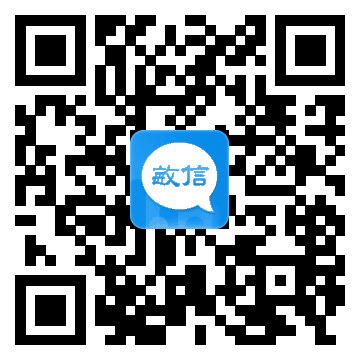
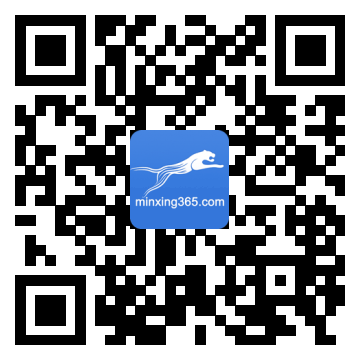
'敏信'改'敏行'

Changed region(s): [[0.3361, 0.3361, 0.6417, 0.6417]]

diff --git a/app/index.html b/app/index.html
@@ -2,9 +2,9 @@
 <html class="no-js">
     <head>
         <meta charset="utf-8">
-        <meta name="keywords" content="敏信,企业微信,企业即时通讯,企业IM,企业公众号,企业服务号,企业应用接入,企业通讯录,公司通讯录,企业社交网络,企业社区,企业SNS,工作圈,企业协作平台,企业协同平台,企业2.0,企业社交软件,Yammer,企业内部社交网络,企业微博,敏行,协同管理,文档管理,知识管理,企业间协作,intranet, company networking, minxing, minxing365, enterprise, productivity, communications, enterprise sns, enterprise IM" />
-        <meta name="description" content="敏信是基于即时通讯(IM)与社交网络(sns)理念的企业移动工作平台，为您的公司构建一个企业私有的沟通、分享和协同工作空间。敏信支持类似微信公众号的方式接入或开发企业应用（例如OA、CRM、ERP等），只需敏信一个应用即可使企业已有应用快速移动化。" />
-        <title>敏信</title>
+        <meta name="keywords" content="敏行,企业微信,企业即时通讯,企业IM,企业公众号,企业服务号,企业应用接入,企业通讯录,公司通讯录,企业社交网络,企业社区,企业SNS,工作圈,企业协作平台,企业协同平台,企业2.0,企业社交软件,Yammer,企业内部社交网络,企业微博,敏行,协同管理,文档管理,知识管理,企业间协作,intranet, company networking, minxing, minxing365, enterprise, productivity, communications, enterprise sns, enterprise IM" />
+        <meta name="description" content="敏行是基于即时通讯(IM)与社交网络(sns)理念的企业移动工作平台，为您的公司构建一个企业私有的沟通、分享和协同工作空间。敏行支持类似微信公众号的方式接入或开发企业应用（例如OA、CRM、ERP等），只需敏行一个应用即可使企业已有应用快速移动化。" />
+        <title>敏行 —— 移动互联时代的工作方式</title>
         <meta name="description" content="">
         <meta name="viewport" content="width=device-width, initial-scale=0.6">
         <link rel="shortcut icon" href="favicon.ico">
@@ -30,7 +30,7 @@
         <header>
             <div class="header">
                 <div class="logo">
-                    <a href="#">敏信</a>
+                    <a href="#">敏行</a>
                     <i>移动互联时代的工作方式</i>
                 </div>
                 <nav>
@@ -46,21 +46,21 @@
         <div class="container">
             <section class="main-wrap">
               <div class="intro-wrap">
-                <h1>敏信，移动互联时代的工作方式</h1>
-                <p>你还在用微信工作吗？<br/>敏信和微信有相同的用户体验，但是：</p>
+                <h1>敏行，移动互联时代的工作方式</h1>
+                <p>你还在用微信工作吗？<br/>敏行和微信有相同的用户体验，但是：</p>
                 <ul>
-                  <li>敏信是企业私密的工作社区</li>
-                  <li>敏信是为工作目的设计的</li>
-                  <li>敏信可以接入企业内部应用</li>
-                  <li>敏信有完整的企业通讯录</li>
-                  <li>敏信拥有企业级的安全措施</li>
+                  <li>敏行是企业私密的工作社区</li>
+                  <li>敏行是为工作目的设计的</li>
+                  <li>敏行可以接入企业内部应用</li>
+                  <li>敏行有完整的企业通讯录</li>
+                  <li>敏行拥有企业级的安全措施</li>
                 </ul>
                 <div class="panel">
-                  <a href="download.html" class="btn-download">下载敏信</a>
+                  <a href="download.html" class="btn-download">下载敏行</a>
                   <a href="#pop-2code" class="btn-2code btn-popup">二维码</a>
                   <div class="mx-popup popup-2code mfp-hide" id="pop-2code">
                       <h4>拍摄手机二维码</h4>
-                      <p>用手机上的二维码扫描软件拍摄以下二维码可直接下载敏信。</p>
+                      <p>用手机上的二维码扫描软件拍摄以下二维码可直接下载敏行。</p>
                       <img src="images/2code.png" alt="二维码" />
                   </div>
                   <div class="security">
@@ -72,14 +72,14 @@
               <div class="slide-phone">
                 <div class="slide-box">
                   <ul class="slide-list">
-                    <li><img src="images/screen01.png" alt="敏信截屏" /></li>
-                    <li><img src="images/screen02.png" alt="敏信截屏" /></li>
-                    <li><img src="images/screen03.png" alt="敏信截屏" /></li>
-                    <li><img src="images/screen04.png" alt="敏信截屏" /></li>
-                    <li><img src="images/screen05.png" alt="敏信截屏" /></li>
+                    <li><img src="images/screen01.png" alt="敏行截屏" /></li>
+                    <li><img src="images/screen02.png" alt="敏行截屏" /></li>
+                    <li><img src="images/screen03.png" alt="敏行截屏" /></li>
+                    <li><img src="images/screen04.png" alt="敏行截屏" /></li>
+                    <li><img src="images/screen05.png" alt="敏行截屏" /></li>
                   </ul>
                 </div>
-                <a class="phone-down" href="download.html">下载敏信</a>
+                <a class="phone-down" href="download.html">下载敏行</a>
                 <p>提供移动App(安卓与iOS)、网页版</p>
               </div>
             </section>
@@ -130,7 +130,7 @@
                             <h4>人与人的沟通 ———— 微信式的即时通讯</h4>
                             <ul>
                                 <li>人与人的即时通讯：实现微信式的即时通讯，包括文字、图片、语音、视频、文档、表情等内容</li>
-                                <li style="display:none">邮件：不是网页版邮箱，而是嵌入敏信的原生的（Native）用户体验极佳的邮件客户端</li>
+                                <li style="display:none">邮件：不是网页版邮箱，而是嵌入敏行的原生的（Native）用户体验极佳的邮件客户端</li>
                                 <li>企业通讯录：支持对接企业的用户系统，例如Microsoft AD、LDAP等，与企业人员组织同步，并按组织架构展现完整的企业通讯录。</li>
                             </ul>
                         </div>
@@ -144,16 +144,16 @@
                                 <li>
                                     重应用接入：
                                     <ul class="sub">
-                                        <li>重应用：我们将企业已有的业务复杂的应用称为重应用，例如OA、ERP等，重应用可以通过类似微信公众号的方式接入敏信，使重应用快速移动化</li>
+                                        <li>重应用：我们将企业已有的业务复杂的应用称为重应用，例如OA、ERP等，重应用可以通过类似微信公众号的方式接入敏行，使重应用快速移动化</li>
                                         <li>企业应用即时推送信息给相关用户</li>
                                         <li>用户通过企业应用推送的信息或互动式菜单直接进入企业应用工作</li>
-                                        <li>在敏信一个地方即可访问所有分散的企业应用，不需要每个应用开发单独客户端</li>
+                                        <li>在敏行一个地方即可访问所有分散的企业应用，不需要每个应用开发单独客户端</li>
                                     </ul>
                                 </li>
                                 <li>
                                     轻应用开发
                                     <ul class="sub">
-                                        <li>轻应用：我们将业务逻辑简单的应用称为轻应用，例如通讯录查找、会议室预订等，轻应用可以基于敏信平台直接开发</li>
+                                        <li>轻应用：我们将业务逻辑简单的应用称为轻应用，例如通讯录查找、会议室预订等，轻应用可以基于敏行平台直接开发</li>
                                     </ul>
                                 </li>
                             </ul>

diff --git a/app/mobile-download.html b/app/mobile-download.html
@@ -2,9 +2,9 @@
 <html class="no-js">
     <head>
         <meta charset="utf-8">
-        <meta name="keywords" content="敏信,企业微信,企业即时通讯,企业IM,企业公众号,企业服务号,企业应用接入,企业通讯录,公司通讯录,企业社交网络,企业社区,企业SNS,工作圈,企业协作平台,企业协同平台,企业2.0,企业社交软件,Yammer,企业内部社交网络,企业微博,敏行,协同管理,文档管理,知识管理,企业间协作,intranet, company networking, minxing, minxing365, enterprise, productivity, communications, enterprise sns, enterprise IM" />
-        <meta name="description" content="敏信是基于即时通讯(IM)与社交网络(sns)理念的企业移动工作平台，为您的公司构建一个企业私有的沟通、分享和协同工作空间。敏信支持类似微信公众号的方式接入或开发企业应用（例如OA、CRM、ERP等），只需敏信一个应用即可使企业已有应用快速移动化。" />
-        <title>敏信</title>
+        <meta name="keywords" content="敏行,企业微信,企业即时通讯,企业IM,企业公众号,企业服务号,企业应用接入,企业通讯录,公司通讯录,企业社交网络,企业社区,企业SNS,工作圈,企业协作平台,企业协同平台,企业2.0,企业社交软件,Yammer,企业内部社交网络,企业微博,敏行,协同管理,文档管理,知识管理,企业间协作,intranet, company networking, minxing, minxing365, enterprise, productivity, communications, enterprise sns, enterprise IM" />
+        <meta name="description" content="敏行是基于即时通讯(IM)与社交网络(sns)理念的企业移动工作平台，为您的公司构建一个企业私有的沟通、分享和协同工作空间。敏行支持类似微信公众号的方式接入或开发企业应用（例如OA、CRM、ERP等），只需敏行一个应用即可使企业已有应用快速移动化。" />
+        <title>敏行</title>
         <meta name="viewport" content="width=device-width, initial-scale=0.5">
         <link rel="shortcut icon" href="favicon.ico">
         <link rel="apple-touch-icon" sizes="57x57" href="apple-touch-icon.png" />
@@ -26,9 +26,9 @@
         <header>
             <div class="header">
                 <div class="logo">
-                    敏信 —— 移动互联网时代的工作方式
+                    敏行 —— 移动互联网时代的工作方式
                 </div>
-                <a style="display:none;" class="btn-download" href="#">下载敏信</a>
+                <a style="display:none;" class="btn-download" href="#">下载敏行</a>
             </div>
         </header>
         <div class="container">
@@ -70,7 +70,7 @@
                 <h4>人与人的沟通 ———— 微信式的即时通讯</h4>
                 <ul>
                     <li>人与人的即时通讯：实现微信式的即时通讯，包括文字、图片、语音、视频、文档、表情等内容</li>
-                    <li style="display:none">邮件：不是网页版邮箱，而是嵌入敏信的原生的（Native）用户体验极佳的邮件客户端</li>
+                    <li style="display:none">邮件：不是网页版邮箱，而是嵌入敏行的原生的（Native）用户体验极佳的邮件客户端</li>
                     <li>企业通讯录：支持对接企业的用户系统，例如Microsoft AD、LDAP等，与企业人员组织同步，并按组织架构展现完整的企业通讯录。</li>
                 </ul>
             </section>
@@ -81,16 +81,16 @@
                     <li>
                         重应用接入：
                         <ul class="sub">
-                            <li>重应用：我们将企业已有的业务复杂的应用称为重应用，例如OA、ERP等，重应用可以通过类似微信公众号的方式接入敏信，使重应用快速移动化</li>
+                            <li>重应用：我们将企业已有的业务复杂的应用称为重应用，例如OA、ERP等，重应用可以通过类似微信公众号的方式接入敏行，使重应用快速移动化</li>
                             <li>企业应用即时推送信息给相关用户</li>
                             <li>用户通过企业应用推送的信息或互动式菜单直接进入企业应用工作</li>
-                            <li>在敏信一个地方即可访问所有分散的企业应用，不需要每个应用开发单独客户端</li>
+                            <li>在敏行一个地方即可访问所有分散的企业应用，不需要每个应用开发单独客户端</li>
                         </ul>
                     </li>
                     <li>
                         轻应用开发
                         <ul class="sub">
-                            <li>轻应用：我们将业务逻辑简单的应用称为轻应用，例如通讯录查找、会议室预订等，轻应用可以基于敏信平台直接开发</li>
+                            <li>轻应用：我们将业务逻辑简单的应用称为轻应用，例如通讯录查找、会议室预订等，轻应用可以基于敏行平台直接开发</li>
                         </ul>
                     </li>
                 </ul>
@@ -104,7 +104,7 @@
                 </ul>
             </section>
             <div class="dowload">
-                <a style="display:none;" class="btn-download">下载敏信</a>
+                <a style="display:none;" class="btn-download">下载敏行</a>
             </div>
         </div>
         <footer>

diff --git a/app/download.html b/app/download.html
@@ -2,9 +2,9 @@
 <html class="no-js">
     <head>
         <meta charset="utf-8">
-        <meta name="keywords" content="敏信,企业微信,企业即时通讯,企业IM,企业公众号,企业服务号,企业应用接入,企业通讯录,公司通讯录,企业社交网络,企业社区,企业SNS,工作圈,企业协作平台,企业协同平台,企业2.0,企业社交软件,Yammer,企业内部社交网络,企业微博,敏行,协同管理,文档管理,知识管理,企业间协作,intranet, company networking, minxing, minxing365, enterprise, productivity, communications, enterprise sns, enterprise IM" />
-        <meta name="description" content="敏信是基于即时通讯(IM)与社交网络(sns)理念的企业移动工作平台，为您的公司构建一个企业私有的沟通、分享和协同工作空间。敏信支持类似微信公众号的方式接入或开发企业应用（例如OA、CRM、ERP等），只需敏信一个应用即可使企业已有应用快速移动化。" />
-        <title>敏信</title>
+        <meta name="keywords" content="敏行,企业微信,企业即时通讯,企业IM,企业公众号,企业服务号,企业应用接入,企业通讯录,公司通讯录,企业社交网络,企业社区,企业SNS,工作圈,企业协作平台,企业协同平台,企业2.0,企业社交软件,Yammer,企业内部社交网络,企业微博,敏行,协同管理,文档管理,知识管理,企业间协作,intranet, company networking, minxing, minxing365, enterprise, productivity, communications, enterprise sns, enterprise IM" />
+        <meta name="description" content="敏行是基于即时通讯(IM)与社交网络(sns)理念的企业移动工作平台，为您的公司构建一个企业私有的沟通、分享和协同工作空间。敏行支持类似微信公众号的方式接入或开发企业应用（例如OA、CRM、ERP等），只需敏行一个应用即可使企业已有应用快速移动化。" />
+        <title>敏行</title>
         <meta name="viewport" content="width=device-width, initial-scale=0.6">
         <link rel="shortcut icon" href="favicon.ico">
         <link rel="apple-touch-icon" sizes="57x57" href="apple-touch-icon.png" />
@@ -29,7 +29,7 @@
         <header>
             <div class="header">
                 <div class="logo">
-                    <a href="#">敏信</a>
+                    <a href="#">敏行</a>
                     <i>移动互联网时代的工作入口</i>
                 </div>
                 <nav>
@@ -71,7 +71,7 @@
 				<h3>手机拍摄二维码</h3>
 				<img src="images/2code.png" alt="二维码" />
 				<p>用手机上的二维码扫描软件拍摄左侧二维码，<br/>
-					或使用手机浏览器访问<a href="https://www.minxing365.com/m" title="敏信客户端下载">https://www.minxing365.com/m</a>，可直接下载敏信。</p>
+					或使用手机浏览器访问<a href="https://www.minxing365.com/m" title="敏行客户端下载">https://www.minxing365.com/m</a>，可直接下载敏行。</p>
 			</section>
         </div>
         <footer>

diff --git a/app/contact.html b/app/contact.html
@@ -2,9 +2,9 @@
 <html class="no-js">
     <head>
         <meta charset="utf-8">
-        <meta name="keywords" content="敏信,企业微信,企业即时通讯,企业IM,企业公众号,企业服务号,企业应用接入,企业通讯录,公司通讯录,企业社交网络,企业社区,企业SNS,工作圈,企业协作平台,企业协同平台,企业2.0,企业社交软件,Yammer,企业内部社交网络,企业微博,敏行,协同管理,文档管理,知识管理,企业间协作,intranet, company networking, minxing, minxing365, enterprise, productivity, communications, enterprise sns, enterprise IM" />
-        <meta name="description" content="敏信是基于即时通讯(IM)与社交网络(sns)理念的企业移动工作平台，为您的公司构建一个企业私有的沟通、分享和协同工作空间。敏信支持类似微信公众号的方式接入或开发企业应用（例如OA、CRM、ERP等），只需敏信一个应用即可使企业已有应用快速移动化。" />
-        <title>敏信</title>
+        <meta name="keywords" content="敏行,企业微信,企业即时通讯,企业IM,企业公众号,企业服务号,企业应用接入,企业通讯录,公司通讯录,企业社交网络,企业社区,企业SNS,工作圈,企业协作平台,企业协同平台,企业2.0,企业社交软件,Yammer,企业内部社交网络,企业微博,敏行,协同管理,文档管理,知识管理,企业间协作,intranet, company networking, minxing, minxing365, enterprise, productivity, communications, enterprise sns, enterprise IM" />
+        <meta name="description" content="敏行是基于即时通讯(IM)与社交网络(sns)理念的企业移动工作平台，为您的公司构建一个企业私有的沟通、分享和协同工作空间。敏行支持类似微信公众号的方式接入或开发企业应用（例如OA、CRM、ERP等），只需敏行一个应用即可使企业已有应用快速移动化。" />
+        <title>敏行</title>
         <meta name="viewport" content="width=device-width, initial-scale=0.6">
         <link rel="shortcut icon" href="favicon.ico">
         <link rel="apple-touch-icon" sizes="57x57" href="apple-touch-icon.png" />
@@ -29,7 +29,7 @@
         <header>
             <div class="header">
                 <div class="logo">
-                    <a href="#">敏信</a>
+                    <a href="#">敏行</a>
                     <i>移动互联网时代的工作入口</i>
                 </div>
                 <nav>

diff --git a/app/styles/main.scss b/app/styles/main.scss
@@ -35,12 +35,12 @@ header {
         float:left;
         width:auto;
         height:55px;
-        padding:20px 0 0 0;
+        padding:15px 0 0 0;
         a {
             display:block;
             float:left;
-            width:80px;
-            height:34px;
+            width:200px;
+            height:47px;
             background:url("../images/logo.png") no-repeat left 2px;
             text-indent:-9999px;
         }
@@ -49,9 +49,8 @@ header {
             float:left;
             width:238px;
             height:38px;
-            margin:0 0 0 12px;
+            margin:16px 0 0 0;
             background:url("../images/logo-sub.png") no-repeat 12px 10px;
-            border-left:1px solid #e6e6e6;
             text-indent:-9999px;
         }
     }

diff --git a/README.md b/README.md
@@ -1,4 +1,4 @@
-# 敏信网站 & mobile下载页
+# 敏行网站 & mobile下载页
 
 网站基于node + grunt + bower搭建环境。
 部署前请确保已安装Node、NPM
